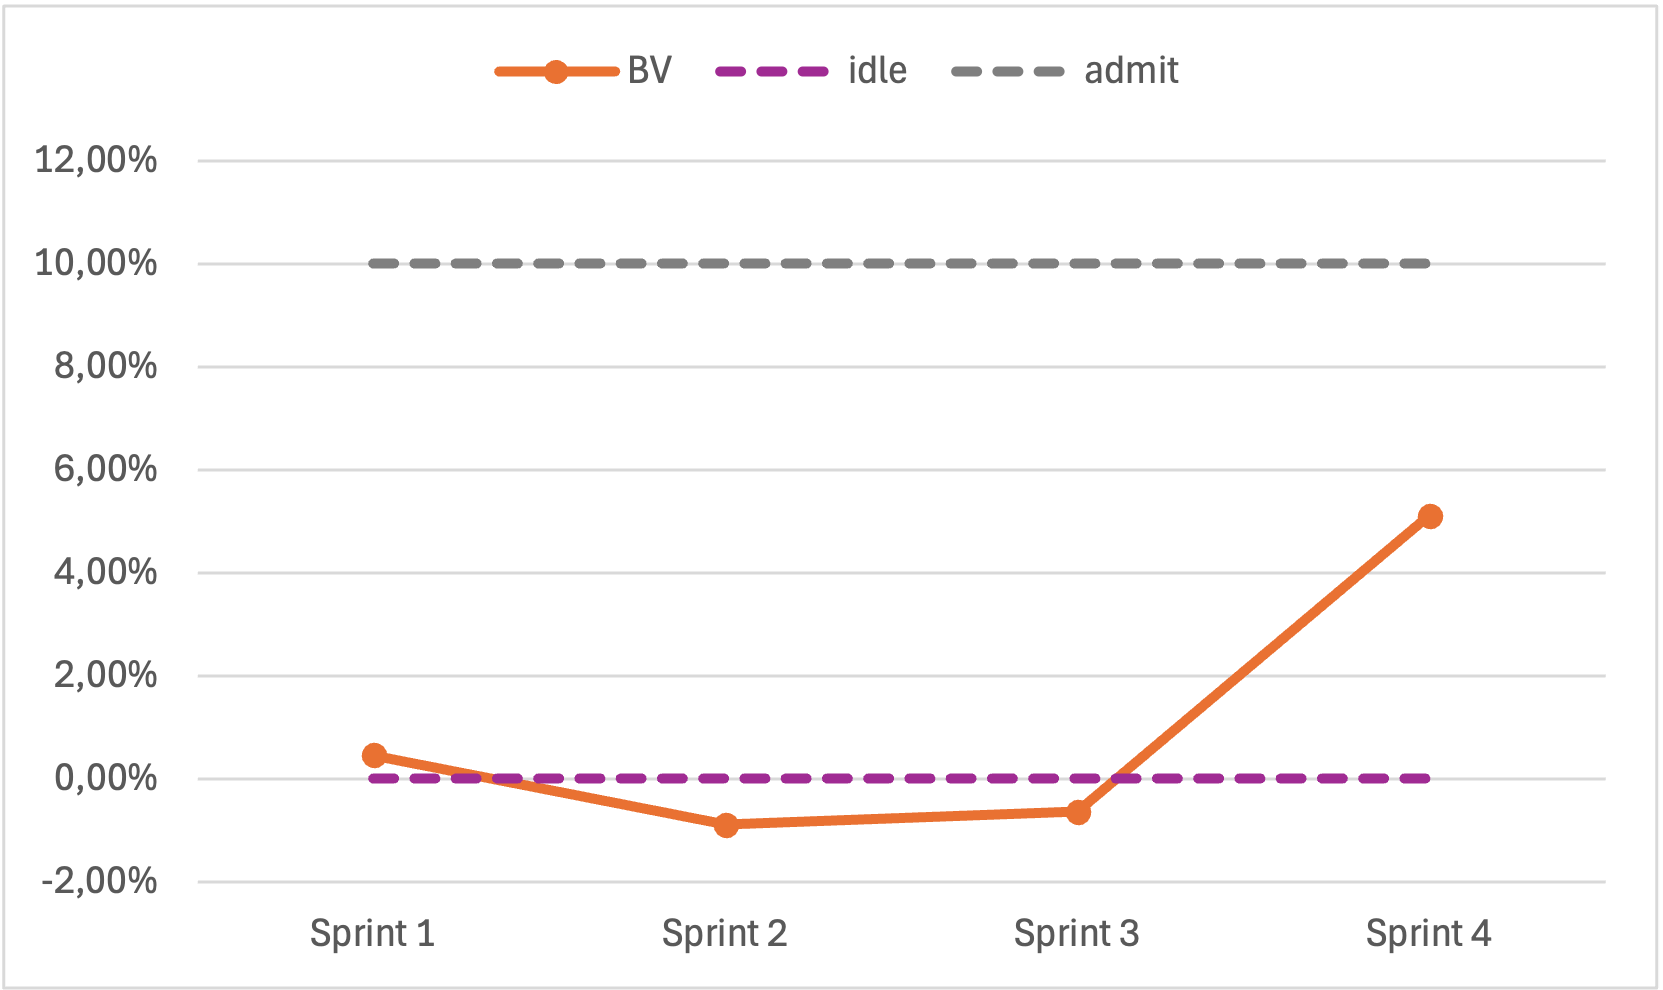
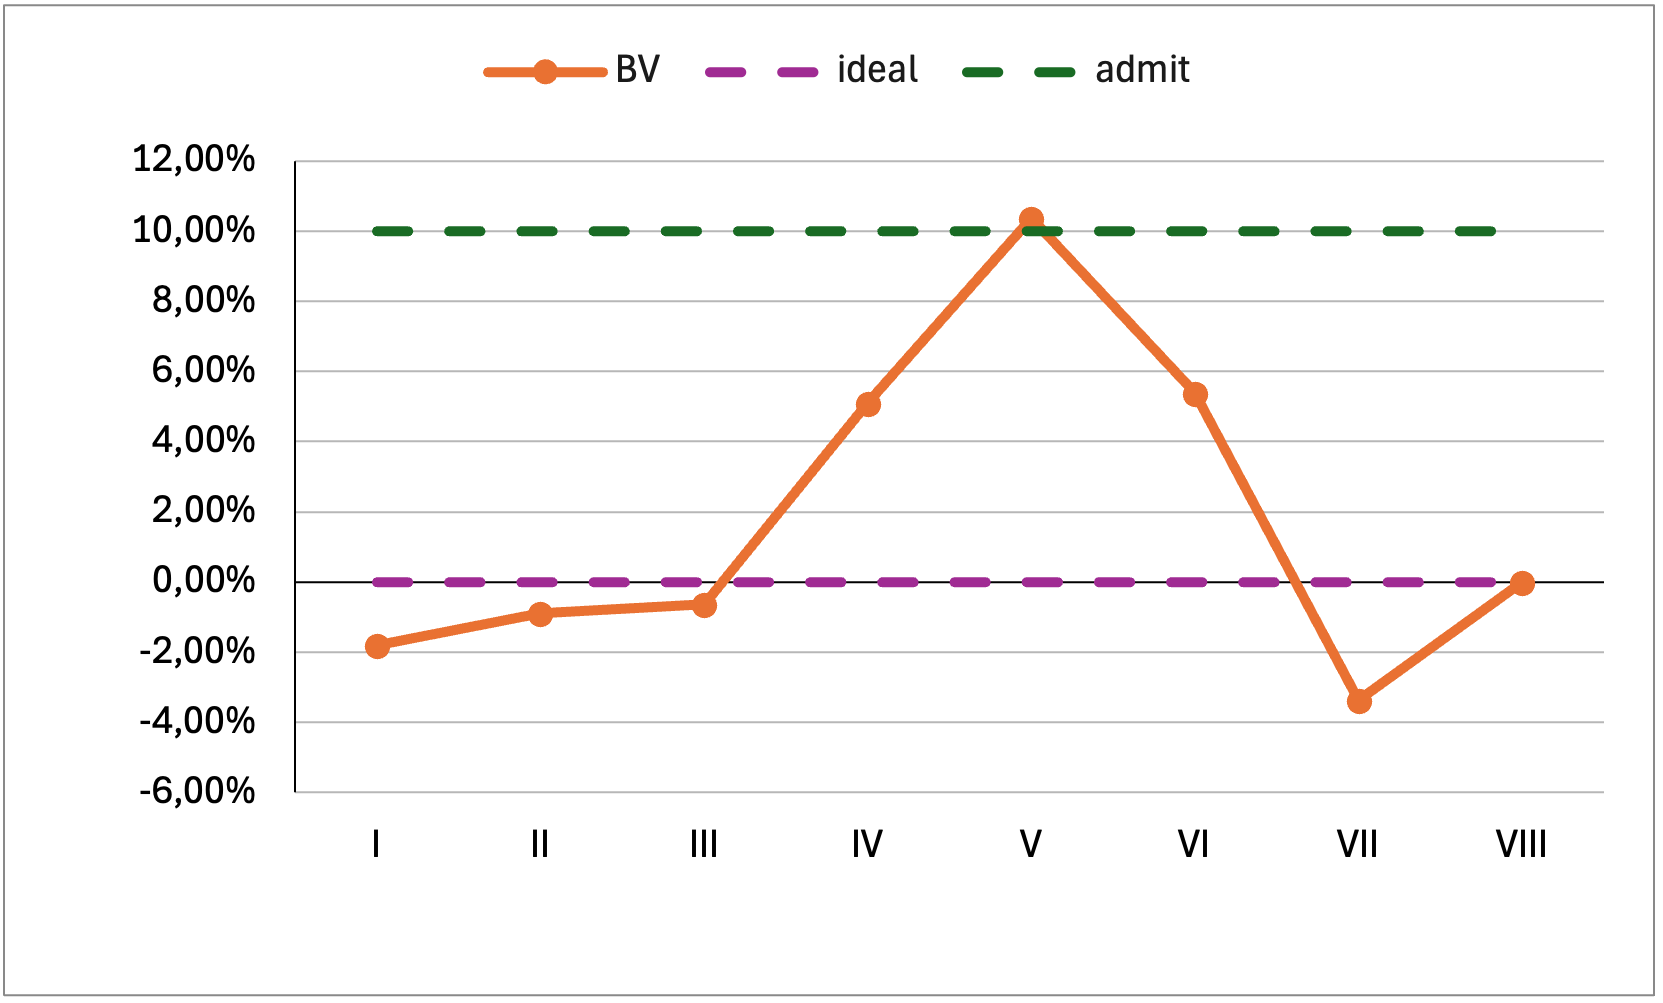
V1.2.1 Cruscotto

diff --git a/src/3 - PB/Piano_di_Qualifica/contents/cruscotto_delle_matriche.tex b/src/3 - PB/Piano_di_Qualifica/contents/cruscotto_delle_matriche.tex
@@ -7,12 +7,12 @@
     \caption{Earned Value, Actual Cost, Planned Value}
 \end{figure}
 \subsubsubsection*{Analisi}
-Queste metriche indicano un buon andamento essendo sempre abbastanza sovrapposte su tutti gli \textit{sprint\textsubscript{G}}, anche se si nota un graduale distaccamento verso il quarto \textit{sprint\textsubscript{G}} a causa dell'aumento dei costi per il raggiungimento degli obiettivi.
+Queste metriche indicano un buon andamento essendo sempre abbastanza sovrapposte su tutti gli \textit{sprint\textsubscript{G}}, anche se si nota un graduale distaccamento negli ultimi periodi dovuto alle imprecisioni nei costi preventivati.
 
 \subsubsection{Estimated To Completion, Estimated At Completion}
 \begin{figure}[H]
     \centering
-    \includegraphics[width=0.8\textwidth]{./images/ETC-EAC.png}
+    \includegraphics[width=0.8\textwidth]{images/ETC-EAC-BAC.png}
     \caption{Estimated To Completion, Estimated At Completion}
 \end{figure}
 \subsubsubsection*{Analisi}
@@ -25,7 +25,7 @@ Dopo un inizio non ottimale è possibile notare un riallineamento. L'Estimation 
     \caption{Estimated To Completion, Estimated At Completion}
 \end{figure}
 \subsubsubsection*{Analisi}
-Anche se la Budget Variance è sempre rimasta nei limiti ammissibili, è evidente come nel quarto \textit{sprint\textsubscript{G}}, dove la variazione è notevole, le ore preventivate fossero insufficienti e questo deve spingere a una più corretta pianificazione basata sulle retrospettive precedenti.
+La Budget Variance non sempre è rimasta nei limiti ammissibili come è evidente come nel quarto, quinto e sesto \textit{sprint\textsubscript{G}}. La variazione è stata notevole essendo le ore preventivate  insufficienti e questo è stato un forte segnale di allarme per il gruppo che ha reagito adeguatamente come si può vedere dai due successivi periodo.
 
 \subsubsection{Cost Variance, Schedule Variance}
 \begin{figure}[H]
@@ -34,7 +34,7 @@ Anche se la Budget Variance è sempre rimasta nei limiti ammissibili, è evident
     \caption{Cost Variance, Schedule Variance}
 \end{figure}
 \subsubsubsection*{Analisi}
-Per quanto i valori, soprattutto della Schedule Variance, siano praticamente sempre rimasti accettabili, non si notano dei netti miglioramenti, ma anzi un peggioramento, come in altre metriche, nel corso del quarto \textit{sprint\textsubscript{G}}. Questo deve spingere a una migliore gestione delle \textit{risorse\textsubscript{G}} per il raggiungimento degli obiettivi entro i costi preventivati.
+Per quanto i valori non si notano dei netti miglioramenti, ma anzi un peggioramento, a cui il gruppo ha cercato di fare fronte, riuscendoci in parte. Questo indica una not ottimale gestione delle \textit{risorse\textsubscript{G}} per il raggiungimento degli obiettivi entro i costi preventivati.
 
 \subsubsection{Cost Performance Index}
 \begin{figure}[H]
@@ -43,17 +43,17 @@ Per quanto i valori, soprattutto della Schedule Variance, siano praticamente sem
     \caption{Cost Performance Index}
 \end{figure}
 \subsubsubsection*{Analisi}
-È evidente come il Cost Performance Index sia migliorato nel corso degli \textit{sprint\textsubscript{G}}, fino a rientrare nei limiti ammissibili, l'obiettivo deve essere quello di seguire il trend attuale per puntare al valore ideale.
+È evidente come il Cost Performance Index sia migliorato nel corso degli \textit{sprint\textsubscript{G}}, fino a rientrare nei limiti ammissibili e successivamente il gruppo è riuscito a mantenerlo entro tali limiti.
 
 \subsection{Qualità di processo - Documentazione}
 \subsubsection{Indice di Gulpease}
 \begin{figure}[H]
     \centering
-    \includegraphics[width=0.8\textwidth]{./images/gulpease.png}
+    \includegraphics[width=0.8\textwidth]{./images/GULPEASE.png}
     \caption{Indice di Gulpease}
 \end{figure}
 \subsubsubsection*{Analisi}
-Al termine del secondo \textit{sprint\textsubscript{G}} tutti i documenti erano in lavorazione ed entro i limiti minimi di leggibilità, si nota peraltro un miglioramento nella leggibilità di tutti i documenti ad esclusione del Piano di Progetto, sul quale il gruppo dovrà concentrarsi di più per garantire una scrittura comprensibile.
+Non solo tutti i documenti rientrano nei limiti accessibili, ma sono anche praticamente tutti in miglioramento nel corso degli ultimi periodi, per quanto il Piano di Progetto che era il documento più carente è rimasto tale. Si nota invece un buon inizio per gli ultimi due documenti creati.
 
 \subsection{Qualità di processo - Gestione della qualità}
 \subsubsection{Metriche non soddisfatte}
@@ -63,20 +63,36 @@ Al termine del secondo \textit{sprint\textsubscript{G}} tutti i documenti erano 
     \caption{Metriche non soddisfatte}
 \end{figure}
 \subsubsubsection*{Analisi}
-La metrica che non risulta mai soddisfatta è EAC per la quale si rimanda all'analisi specifica. Altre metriche che risultano non soddisfatte sono ETC (primi due \textit{sprint\textsubscript{G}}), CPI (primo \textit{sprint\textsubscript{G}}) e CV (quarto \textit{sprint\textsubscript{G}} per il quale si rimanda all'analisi specifica).
+La metrica che non risulta mai soddisfatta è EAC per la quale si rimanda all'analisi specifica. Altre metriche che risultano non soddisfatte sono ETC (primi due \textit{sprint\textsubscript{G}}), CPI (primo \textit{sprint\textsubscript{G}}) ed infine CV ed SV (dal quinto \textit{sprint\textsubscript{G}} per i quali si rimanda all'analisi specifica).
+
+\subsection{Qualità di processo - Sviluppo}
+\subsubsection{Statement Coverage}
+\begin{figure}[H]
+    \centering
+    \includegraphics[width=0.8\textwidth]{./images/SC.png}
+    \caption{Statement Coverage}
+\end{figure}
+\subsubsubsection*{Analisi}
+ L’incremento della SC indica che non solo vengono testate le funzioni più evidenti, ma si stanno anche affrontando dettagli e scenari più complessi, garantendo che il codice sia eseguito e validato in ogni sua parte.
 
 \subsection{Qualità di prodotto - Funzionalità}
 \subsubsection{Requisiti soddisfatti}
 \begin{figure}[H]
     \centering
-    \includegraphics[width=0.8\textwidth]{./images/requisitisoddisfatti.png}
+    \includegraphics[width=0.8\textwidth]{./images/REQ.png}
     \caption{Requisiti soddisfatti}
 \end{figure}
 \subsubsubsection*{Analisi}
-Il progetto fino ad ora si è concentrato sulla creazione di un \textit{Proof of Concept\textsubscript{G}}, e non su prodotto finale con il quale soddisfare i \textit{requisiti\textsubscript{G}}, per cui è normale che nel cruscotto non risulti soddisfatto alcun \textit{requisito\textsubscript{G}}.
+La copertura dei requisiti obbligatori\textsubscript{G} è del 100\%, a conferma del pieno rispetto dei criteri minimi di accettazione e dei vincoli progettuali.
+I requisiti desiderabili\textsubscript{G} risultano soddisfatti al 42\%, indicando un buon livello di implementazione oltre la soglia minima, con margini di miglioramento per potenziare ulteriormente il valore del prodotto.
+I requisiti opzionali\textsubscript{G} hanno una copertura del 11\%, coerente con la loro natura non prioritaria; rappresentano possibili spunti per evoluzioni future.
 
-\subsection{Considerazioni finali in vista della revisione RTB}
-Sin dalle prime fasi del progetto il gruppo si è posto l'obiettivo di avere un \textit{Way of Working\textsubscript{G}} chiaro e puntuale, anche se di natura incrementale, in quanto questo deve essere gradualmente ampliato e raffinato con il passare del tempo. Nonostante il \textit{Way of Working\textsubscript{G}} sia progressivamente migliorato con l’avanzare del progetto, alcune aree necessitano di essere ancora migliorate per far sì che la qualità di processo si rifletta positivamente sulla qualità di prodotto. \\
-La comunicazione, all'interno del team e con il Proponente\textsubscript{G} è stata fin da subito stabile e costruttiva, sia in modalità sincrona, permettendo riunioni efficaci di durata non eccessiva, che asincrona, permettendo una buona organizzazione del lavoro. \\
-Il processo di automiglioramento che il gruppo si è impegnato ad assumere si è concentrato, e continuerà a concentrarsi, anche sulle modalità di gestione delle difficoltà e degli imprevisti, per escogitare contromisure efficaci che permettano di non sprecare \textit{risorse\textsubscript{G}}. \\
-Un obiettivo di vitale importanza per il gruppo nel corso dei prossimi \textit{sprint\textsubscript{G}} è l'aggiornamento rigoroso e puntuale del Piano di Progetto e del Piano di Qualifica con i dati rilevanti ed aggiornati, al fine da poter essere sfruttati al meglio. \\
+\subsection{Qualità di prodotto - Affidabilità}
+\subsubsection{PTCP, CC}
+\begin{figure}[H]
+    \centering
+    \includegraphics[width=0.8\textwidth]{./images/PTCP-CC.png}
+    \caption{Passed Test Cases Percentage, Code Coverage}
+\end{figure}
+\subsubsubsection*{Analisi}
+Nei primi periodi di lavoro sull'MVP, ci sono stati molti test falliti (probabile fase di sviluppo iniziale), ma il miglioramento in seguito dimostra un’ottima gestione dei bug e la crescita della stabilità del codice. Anche la copertura è migliorata notevolmente, questo suggerisce che, a partire dal periodo VI, si è iniziato a testare in modo più sistematico, coprendo le feature principali.

diff --git a/src/3 - PB/Piano_di_Qualifica/contents/strategie_di_testing.tex b/src/3 - PB/Piano_di_Qualifica/contents/strategie_di_testing.tex
@@ -37,7 +37,6 @@ I \textit{test\textsubscript{G}} di unità sono una tipologia di \textit{test\te
 \end{itemize}
 Per la realizzazione di questa categoria di \textit{test\textsubscript{G}} per questo progetto sarà utilizzato il \textit{framework\textsubscript{G}} \textit{unittest\textsubscript{G}} per Python, dato che quest'ultimo è il linguaggio scelto per la realizzazione del \textit{backend\textsubscript{G}}.\\
 I \textit{test\textsubscript{G}} di unità, insieme ai \textit{test\textsubscript{G}} di integrazione, come richiesto nel capitolato, devono avere un \textit{coverage\textsubscript{G}} minimo pari al 75\% (opzionalmente un \textit{coverage\textsubscript{G}} minimo pari al 90\%).
-TODO: Inserire i test
 \begin{table}[H]
 \centering
 \begin{tabularx}{\textwidth}{>{\hsize=0.2\hsize}>{\centering\arraybackslash}X|X|>{\hsize=0.1\hsize}>{\centering\arraybackslash}X}
@@ -361,11 +360,7 @@ I \textit{test\textsubscript{G}} di integrazione, insieme ai \textit{test\textsu
        TI-7 & Verifica che l'endpoint aggiunga correttamente un nuovo messaggio a una conversazione & V \\
        \hline
        TI-8 & Verifica che l'endpoint recuperi correttamente tutti i messaggi associati a una conversazione & V \\
-       \end{tabularx}
-    \end{table}
-\begin{table}[H]
-   \centering
-   \begin{tabularx}{\textwidth}{>{\hsize=0.2\hsize}>{\centering\arraybackslash}X|X|>{\hsize=0.1\hsize}>{\centering\arraybackslash}X}
+       \hline
        TI-9 & Verifica che l'endpoint restituisca correttamente il messaggio di successo & V \\
        \hline
        TI-10 & Verifica che l'endpoint gestisca correttamente una richiesta di domanda & V \\
@@ -394,7 +389,7 @@ I \textit{test\textsubscript{G}} di integrazione, insieme ai \textit{test\textsu
        \hline
        TI-22 & Verifica che la funzione gestisca correttamente un input molto grande restituendo un vettore di embedding valido & V \\
    \end{tabularx}
-   \caption{Stato dei \textit{test\textsubscript{G}} di unità}
+   \caption{Stato dei \textit{test\textsubscript{G}} di integrazione}
 \end{table}
 
 
@@ -408,11 +403,17 @@ I \textit{test\textsubscript{G}} End-to-End, come richiesto nel capitolato, devo
     \begin{tabularx}{\textwidth}{>{\hsize=0.4\hsize}>{\centering\arraybackslash}X|X|>{\centering\arraybackslash}X|>{\hsize=0.3\hsize}>{\centering\arraybackslash}X}
         \textbf{Codice} & \textbf{Descrizione} & \textbf{Casi d'uso} & \textbf{Stato} \\
         \hline
-       TE-1 &  &  & NI \\
+       TE-1 & Verifica della creazione di una nuova conversazione e dell'invio di una domanda con successiva visualizzazione della risposta & UC1, UC5 & V \\
         \hline
-        TE-2 &  &  & NI \\
+        TE-2 & Verifica della visualizzazione dello storico dei messaggi all'interno di una conversazione & UC3.4 & V \\
         \hline
-        TE-3 &  &  & NI \\
+        TE-3 & Verifica della possibilità di fare richieste in italiano e di ottenere risposte pertinenti & UC5, UC8  & V \\
+        \hline
+        TE-4 & Verifica della possibilità di fornire un feedback sulla risposta fornita dal sistema & UC10 & V \\
+        \hline
+        TE-5 & Verifica della funzionalità di eliminazione di una conversazione &  UC11 & V \\
+        \hline
+        TE-6 & Verifica dell'accesso al cruscotto informativo per amministratori e della visualizzazione delle informazioni nel cruscotto informativo& UC14, UC15, UC16 & V \\
     \end{tabularx}
     \caption{Stato dei \textit{test\textsubscript{G}} End-to-End}
 \end{table}

diff --git a/src/3 - PB/Piano_di_Qualifica/contents/qualita_del_prodotto.tex b/src/3 - PB/Piano_di_Qualifica/contents/qualita_del_prodotto.tex
@@ -11,28 +11,12 @@ La qualità del prodotto si concentra sulla valutazione del \textit{software}\te
         \hline
         ROS\textsubscript{G} & Requisiti Obbligatori Soddisfatti & \(100\%\) & 0\\
         \hline
-        RDS\textsubscript{G} & Requisiti Desiderabili Soddisfatti & \(\ge0\%\) & \(\ge75\%\)\\
+        RDS\textsubscript{G} & Requisiti Desiderabili Soddisfatti & \(\ge0\%\) & \(\ge65\%\)\\
         \hline
         RPS\textsubscript{G} & Requisiti Opzionali Soddisfatti & \(\ge0\%\) & \(\ge50\%\)\\
         
     \end{tabularx}
     \caption{Metriche\textsubscript{G} per la funzionalità\textsubscript{G} del prodotto}
-\end{table}
-
-\subsection{Manutenibilità}
-
-\begin{table}[H]
-    \centering
-    \begin{tabularx}{\textwidth}{>{\hsize=0.5\hsize}X|X|>{\centering\arraybackslash}X|>{\hsize=0.8\hsize}>{\centering\arraybackslash}X}
-   
-        \textbf{Metrica} & \textbf{Descrizione} & \textbf{Valore accettabile} & \textbf{Valore ideale}  \\
-        \hline
-        SFIN\textsubscript{G} & \textit{Structure Fan In}\textsubscript{G} & da determinare & da determinare\\
-        \hline
-        SFOUT\textsubscript{G} & \textit{Structure Fan Out}\textsubscript{G} & da determinare & da determinare\\
-        
-    \end{tabularx}
-    \caption{Metriche\textsubscript{G} per la manutenibilità\textsubscript{G} del prodotto}
 \end{table}
 
 \subsection{Affidabilità}
@@ -43,24 +27,12 @@ La qualità del prodotto si concentra sulla valutazione del \textit{software}\te
    
         \textbf{Metrica} & \textbf{Descrizione} & \textbf{Valore accettabile} & \textbf{Valore ideale}  \\
         \hline
-        PTCP\textsubscript{G} & \textit{Passed Test Cases Percentage}\textsubscript{G} & \(\ge80\%\) & \(100\%\)\\
+        PTCP\textsubscript{G} &  Passed Test Cases Percentage\textsubscript{G} & \(\ge75\%\) & \(100\%\)\\
         \hline
-        CC\textsubscript{G} & \textit{Code Coverage}\textsubscript{G} & \(\ge80\%\) & \(100\%\)\\
+        CC\textsubscript{G} & Code Coverage\textsubscript{G} & \(\ge75\%\) & \(100\%\)\\
         
     \end{tabularx}
     \caption{Metriche\textsubscript{G} per l'affidabilità\textsubscript{G} del prodotto}
 \end{table}
 
-\subsection{Efficienza}
 
-\begin{table}[H]
-    \centering
-    \begin{tabularx}{\textwidth}{>{\hsize=0.5\hsize}X|X|>{\centering\arraybackslash}X|>{\hsize=0.8\hsize}>{\centering\arraybackslash}X}
-   
-        \textbf{Metrica} & \textbf{Descrizione} & \textbf{Valore accettabile} & \textbf{Valore ideale}  \\
-        \hline
-        TDE\textsubscript{G} & Tempo Di Elaborazione\textsubscript{G} & da determinare & da determinare\\
-        
-    \end{tabularx}
-    \caption{Metriche\textsubscript{G} per l'efficienza del prodotto}
-\end{table}

diff --git a/src/3 - PB/Piano_di_Qualifica/contents/versioning.tex b/src/3 - PB/Piano_di_Qualifica/contents/versioning.tex
@@ -3,6 +3,12 @@
 \begin{tabular}{|C{1.7cm}|C{2cm}|C{3.5cm}|C{2.9cm}|L{3.6cm}|}
     \hline
     \textbf{Versione} & \textbf{Data} & \textbf{Autore} & \textbf{Ruolo} & \textbf{Descrizione} \\
+    \hline
+        1.2.1 & 2025-04-05 & Derek Gusatto & Amministratore & Cruscotto delle metriche\\ 
+        \hline
+        1.2.0 & 2025-04-05 & Derek Gusatto & Verificatore & Verificati Unit Test e Test di Integrazione \\
+        \hline
+        1.1.1 & 2025-04-04 & Davide Martinelli & Programmatore & Unit Test e Test di Integrazione relativi al frontend\\
          \hline
         1.1.0 & 2025-04-03 & Derek Gusatto & Verificatore & Verificati Unit Test e Test di Integrazione Backend \\
         \hline
@@ -12,7 +18,7 @@
         \hline
         0.2.0 & 2025-01-24 & Alessandro Benin & Verificatore & Verifica completa \\
         \hline
-         0.1.6 & 2025-01-24 & Derek Gusatto & Responsabile &  §1.4 Riferimenti \\
+         0.1.6 & 2025-01-24 & Derek Gusatto & Responsabile &  §1.4 Riferimenti \\ \hline
         0.1.5 & 2025-01-24 & Derek Gusatto & Responsabile &  §5.5 Considerazioni finali in vista della revisione RTB \\
          \hline
          0.1.4 & 2025-01-23 & Derek Gusatto & Responsabile & Correzioni tabelle metriche, aggiunta grafici, correzione minori varie \\

diff --git a/src/3 - PB/Piano_di_Qualifica/contents/qualita_di_processo.tex b/src/3 - PB/Piano_di_Qualifica/contents/qualita_di_processo.tex
@@ -17,7 +17,7 @@ In altre parole, la qualità dei processi ha l'obiettivo di andare a conformare 
          EAC& Estimated At Completion & \(\pm\)5\% del budget preventivato & budget preventivato \\ \hline 
          ETC& Estimated To Completion & \(\ge 0\) & \(\le EAC\) \\ \hline
          SV& Schedule Variance & \(\pm\)150 & 0\% \\ \hline
-         BV& Budget Variance & \(\ge\) 10\%  & 0\% \\ 
+         BV& Budget Variance & \(\ge\) 10\%  & 0\% \\ \hline
          BAC& Budget At Completion & -  & - \\ 
          
     \end{tabularx}
@@ -33,7 +33,7 @@ In altre parole, la qualità dei processi ha l'obiettivo di andare a conformare 
    
         \textbf{Metrica} & \textbf{Descrizione} & \textbf{Valore accettabile} & \textbf{Valore ideale}  \\
         \hline
-        SC & Statement Coverage &  0 & \(\ge 100\%\) \\
+        SC & Statement Coverage &  \(\ge 70\%\) & \(\ge 100\%\) \\
         
     \end{tabularx}
     \caption{Metriche per il processo di codifica}

diff --git a/src/3 - PB/Piano_di_Qualifica/piano_di_qualifica.tex b/src/3 - PB/Piano_di_Qualifica/piano_di_qualifica.tex
@@ -45,7 +45,8 @@
 \newcommand{\redattore}{
     & Matteo Piron \\
     & Matteo Gerardin \\
-    & Derek Gusatto
+    & Derek Gusatto \\
+    & Davide Martinelli 
 }
 \newcommand{\uso}{& Esterno}
 \newcommand{\destinatari}{
